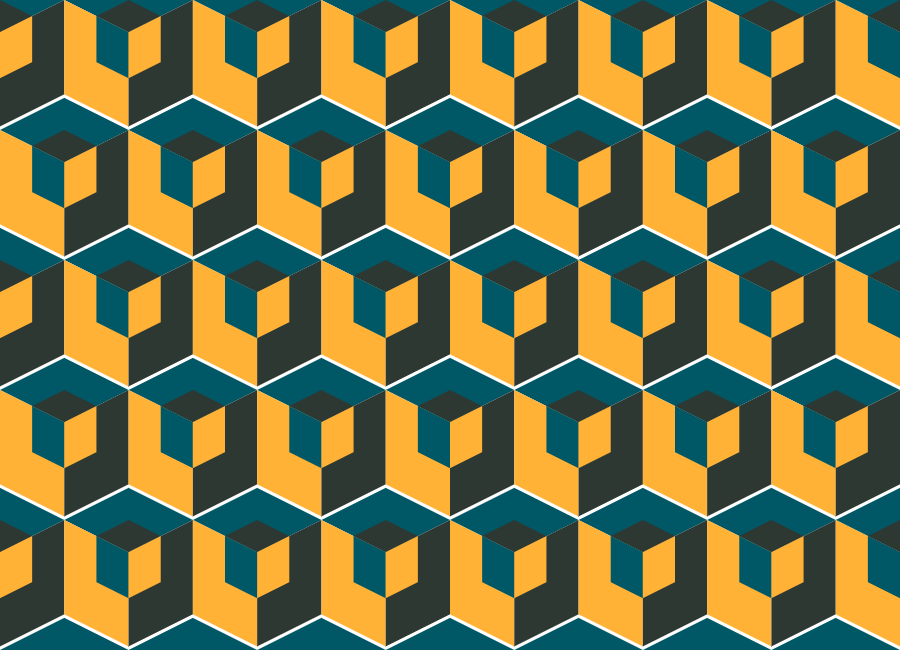
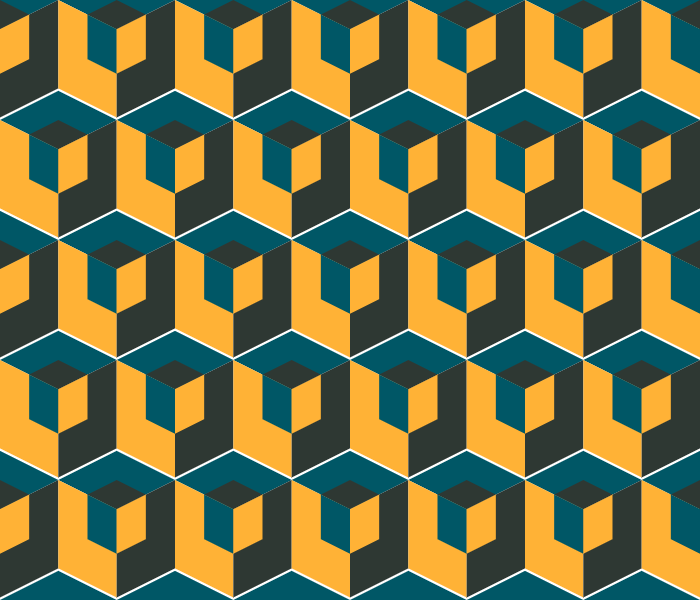
update margin bottom of cards

diff --git a/Exercise 06 - Triangle and Line pattern/index.html b/Exercise 06 - Triangle and Line pattern/index.html
@@ -1,71 +1,75 @@
 <!DOCTYPE html>
 <html>
-  <head>
-    <meta charset="UTF-8">
-    <title></title>
-    <script src="../libraries/p5/p5.min.js" type="text/javascript"></script>
 
-    <script src="../libraries/p5/p5.dom.min.js" type="text/javascript"></script>
-    <script src="../libraries/generative-design-library/generative-design-library.js" type="text/javascript"></script>
+<head>
+  <meta charset="UTF-8">
+  <title></title>
+  <script src="../libraries/p5/p5.min.js" type="text/javascript"></script>
 
-    <script src="sketch.js" type="text/javascript"></script>
-    <!-- font-awesome -->
-    <script src="https://use.fontawesome.com/8d05b3eeca.js"></script>
-    <link rel="stylesheet" href="https://stackpath.bootstrapcdn.com/bootstrap/4.4.1/css/bootstrap.min.css" integrity="sha384-Vkoo8x4CGsO3+Hhxv8T/Q5PaXtkKtu6ug5TOeNV6gBiFeWPGFN9MuhOf23Q9Ifjh" crossorigin="anonymous">
-    <link href="../styles/main.css" rel="stylesheet" type="text/css">
+  <script src="../libraries/p5/p5.dom.min.js" type="text/javascript"></script>
+  <script src="../libraries/generative-design-library/generative-design-library.js" type="text/javascript"></script>
 
-    <!-- help tooltip start -->
-    <script src="../libraries/jquery/jquery.js" type="text/javascript"></script>
-    <script type="text/javascript" src="../libraries/tooltipster/tooltipster.bundle.js"></script>
-    <link rel="stylesheet" type="text/css" href="../libraries/tooltipster/tooltipster.bundle.css" />
-    <link rel="stylesheet" type="text/css" href="../libraries/tooltipster/tooltipster-sideTip-noir.min.css" />
-    <script src="../libraries/help-tooltip.js" type="text/javascript"></script>
-    <!-- help tooltip end -->
-  </head>
-  <body>
-    <div class="container">
-      <div class="row">
+  <script src="sketch.js" type="text/javascript"></script>
+  <!-- font-awesome -->
+  <script src="https://use.fontawesome.com/8d05b3eeca.js"></script>
+  <link rel="stylesheet" href="https://stackpath.bootstrapcdn.com/bootstrap/4.4.1/css/bootstrap.min.css" integrity="sha384-Vkoo8x4CGsO3+Hhxv8T/Q5PaXtkKtu6ug5TOeNV6gBiFeWPGFN9MuhOf23Q9Ifjh" crossorigin="anonymous">
+  <link href="../styles/main.css" rel="stylesheet" type="text/css">
+
+  <!-- help tooltip start -->
+  <script src="../libraries/jquery/jquery.js" type="text/javascript"></script>
+  <script type="text/javascript" src="../libraries/tooltipster/tooltipster.bundle.js"></script>
+  <link rel="stylesheet" type="text/css" href="../libraries/tooltipster/tooltipster.bundle.css" />
+  <link rel="stylesheet" type="text/css" href="../libraries/tooltipster/tooltipster-sideTip-noir.min.css" />
+  <script src="../libraries/help-tooltip.js" type="text/javascript"></script>
+  <!-- help tooltip end -->
+</head>
+
+<body class="container-fluid">
+  <!-- <div class="container"> -->
+  <div class="row">
+    <div class="col">
+      <div class="row title-div">
         <div class="col">
-          <h1 class="title"> Triangle and Line Pattern <i class="fa fa-info-circle float-right" id="progress"></i> <i class="fa fa-play-circle float-right mr-1" id="showCanvas"></i></h1>
+          <h1 class="title"> Triangle and Line Pattern <span class="icons"><i class="fa fa-play-circle-o fa-sm mr-1" id="showCanvas"></i><i class="fa fa-info-circle fa-sm" id="progress"></i></span></h1>
         </div>
       </div>
+      <div class="container">
+        <div class="row pd d-none" id="progress-div">
+          <div class="col-md-6">
 
-      <div class="row pd d-none" id="progress-div">
-        <div class="col-md-6">
+            <h2>Description</h2>
+            <p>
+              Randomly generated triangles and lines in the canvas. Using the random() method as the other exercises, either a triangle or a line is drawn on the grid cell.
+              lerpColor() method is also used to set the colors.
+            </p>
 
-          <h2>Description</h2>
-          <p>
-            Randomly generated triangles and lines in the canvas. Using the random() method as the other exercises, either a triangle or a line is drawn on the grid cell.
-            lerpColor() method is also used to set the colors.
-          </p>
-
-          <h3>Functions</h3>
-          <h4>Triangles</h4>
-          <p>
-            To draw the triangles, beginShape(), vertex() and endShape() are used.
-            The parameter passed in the beginShape method is TRIANGLES.
-            This draws two triangles on a grid cell.
-            <br />
-            Using the random() method, a value of either 0 or 1 is generated. An if statement is used to check if the randomNum variable is 0 or 1.
-            If its 0, the triangles are drawn, and if the randomNum value is 1, a line is drawn.
-            <br />
-            <div class="code-block">
-              <span class="code">
-                let r = map(mouseX, 0, cWidth, -(squareSize/2), (squareSize/2),true);
-                let sw = map(mouseY, 0, cWidth, 0, 15,true);
-                <br />
-              </span>
-            </div>
-            <br />
-            Using the random() method, a value of either 0 or 1 is generated. An if statement is used to check if the randomNum variable is 0 or 1.
-            If its 0, the squares is drawn with the r variable substracted from the width and height of the squares.
-            If the randomNum value is 1, the squares is drawn with the r variable added to the width and height of the squares.
-            <br />
-            <br />
-            <div class="code-block">
-              <span class="code">
-                let randomNum = round(random(0, 1));<br />
-                if (randomNum == 0) {<br />
+            <h3>Functions</h3>
+            <h4>Triangles</h4>
+            <p>
+              To draw the triangles, beginShape(), vertex() and endShape() are used.
+              The parameter passed in the beginShape method is TRIANGLES.
+              This draws two triangles on a grid cell.
+              <br />
+              Using the random() method, a value of either 0 or 1 is generated. An if statement is used to check if the randomNum variable is 0 or 1.
+              If its 0, the triangles are drawn, and if the randomNum value is 1, a line is drawn.
+              <br />
+              <div class="code-block">
+                <span class="code">
+                  let r = map(mouseX, 0, cWidth, -(squareSize/2), (squareSize/2),true);
+                  let sw = map(mouseY, 0, cWidth, 0, 15,true);
+                  <br />
+                </span>
+              </div>
+              <br />
+              Using the random() method, a value of either 0 or 1 is generated. An if statement is used to check if the randomNum variable is 0 or 1.
+              If its 0, the squares is drawn with the r variable substracted from the width and height of the squares.
+              If the randomNum value is 1, the squares is drawn with the r variable added to the width and height of the squares.
+              <br />
+              <br />
+              <div class="code-block">
+                <span class="code">
+                  let randomNum = round(random(0, 1));<br />
+                  if (randomNum == 0) {<br />
                   <br />
                   &nbsp;beginShape(TRIANGLES);<br />
                   &nbsp;stroke(col);<br />
@@ -82,14 +86,14 @@
                   &nbsp;vertex(0, squareSize);<br />
                   &nbsp;vertex(squareSize, 0);<br />
                   &nbsp;endShape();<br />
-                } else {<br />
+                  } else {<br />
                   &nbsp;stroke(col);<br />
                   &nbsp;fill(col);<br />
                   &nbsp;line(0, 0, squareSize, squareSize);<br />
-                }
-                <br />
-              </span>
-            </div>
+                  }
+                  <br />
+                </span>
+              </div>
           </div>
           <div class="col-md-6 col2">
             <br />
@@ -105,23 +109,24 @@
               <img class="img" src="images/image02.png" />
             </div>
           </div>
+        </div>
       </div>
     </div>
-  </body>
-  <script src="../main.js" type="text/javascript"></script>
-  <style>
-    canvas {
-      /* border: 2px solid black; */
-      display: block;
-      margin: 0 auto;
-    }
+  </div>
+</body>
+<script src="../main.js" type="text/javascript"></script>
+<style>
+  canvas {
+    /* border: 2px solid black; */
+    display: block;
+    margin: 0 auto;
+  }
 
-    .title {
-      margin-top: 50px;
-      margin-bottom: 50px;
-      text-align: center;
-    }
+  .title {
+    margin-top: 50px;
+    margin-bottom: 50px;
+    text-align: center;
+  }
+</style>
 
-
-  </style>
 </html>

diff --git a/index.html b/index.html
@@ -26,7 +26,7 @@
     <div class="container">
       <div class="row row-cols-1 row-cols-sm-2 row-cols-md-3">
 
-        <div class="col mb-3">
+        <div class="col mb-5">
           <div class="card h-100">
             <div class="card-img">
               <img class="card-img-top" src="images/interactive-colorrange.png" alt="Card image cap">
@@ -37,7 +37,7 @@
             </div>
           </div>
         </div>
-        <div class="col mb-3">
+        <div class="col mb-5">
           <div class="card h-100">
             <div class="card-img">
               <img class="card-img-top" src="images/interactive color wheel.png" alt="Card image cap">
@@ -48,7 +48,7 @@
             </div>
           </div>
         </div>
-        <div class="col mb-3">
+        <div class="col mb-5">
           <div class="card h-100">
             <div class="card-img">
               <img class="card-img-top" src="images/lerp01.png" alt="Card image cap">
@@ -59,7 +59,7 @@
             </div>
           </div>
         </div>
-        <div class="col mb-3">
+        <div class="col mb-5">
           <div class="card h-100">
             <div class="card-img">
               <img class="card-img-top" src="images/colorpalette.png" alt="Card image cap">
@@ -70,7 +70,7 @@
             </div>
           </div>
         </div>
-        <div class="col mb-3">
+        <div class="col mb-5">
           <div class="card h-100">
             <div class="card-img">
               <img class="card-img-top" src="images/Asterik.png" alt="Card image cap">
@@ -81,7 +81,7 @@
             </div>
           </div>
         </div>
-        <div class="col mb-3">
+        <div class="col mb-5">
           <div class="card h-100">
             <div class="card-img">
               <img class="card-img-top" src="images/rotatingsquares.png" alt="Card image cap">
@@ -92,7 +92,7 @@
             </div>
           </div>
         </div>
-        <div class="col mb-3">
+        <div class="col mb-5">
           <div class="card h-100">
             <div class="card-img">
               <img class="card-img-top" src="images/rotatingcircle.png" alt="Card image cap">
@@ -103,7 +103,7 @@
             </div>
           </div>
         </div>
-        <div class="col mb-3">
+        <div class="col mb-5">
           <div class="card h-100">
             <div class="card-img">
               <img class="card-img-top" src="images/line.png" alt="Card image cap">
@@ -114,7 +114,7 @@
             </div>
           </div>
         </div>
-        <div class="col mb-3">
+        <div class="col mb-5">
           <div class="card h-100">
             <div class="card-img">
               <img class="card-img-top" src="images/square2.png" alt="Card image cap">
@@ -125,7 +125,7 @@
             </div>
           </div>
         </div>
-        <div class="col mb-3">
+        <div class="col mb-5">
           <div class="card h-100">
             <div class="card-img">
               <img class="card-img-top" src="images/triangleline.png" alt="Card image cap">
@@ -136,7 +136,7 @@
             </div>
           </div>
         </div>
-        <div class="col mb-3">
+        <div class="col mb-5">
           <div class="card h-100">
             <div class="card-img">
               <img class="card-img-top" src="images/cubic.png" alt="Card image cap">
@@ -147,7 +147,7 @@
             </div>
           </div>
         </div>
-        <div class="col mb-3">
+        <div class="col mb-5">
           <div class="card h-100">
             <div class="card-img">
               <img class="card-img-top" src="images/wrappingpaper.png" alt="Card image cap">

diff --git a/Exercise 08 - Original Pattern/sketch.js b/Exercise 08 - Original Pattern/sketch.js
@@ -1,6 +1,6 @@
 let cWidth = 900;
 let cHeight = 650;
-let numCubeWidth = 7;
+let numCubeWidth = 6;
 let numCubeHeight = 5;
 let cubeWidth = cWidth / numCubeWidth;
 let cubeHeight = cHeight / numCubeHeight;

diff --git a/Exercise 06 - Triangle and Line pattern/sketch.js b/Exercise 06 - Triangle and Line pattern/sketch.js
@@ -1,5 +1,5 @@
-let cWidth = 800;
-let cHeight = 800;
+let cWidth = 700;
+let cHeight = 600;
 let numSquares = 15;
 let squareSize = cWidth / numSquares;
 
